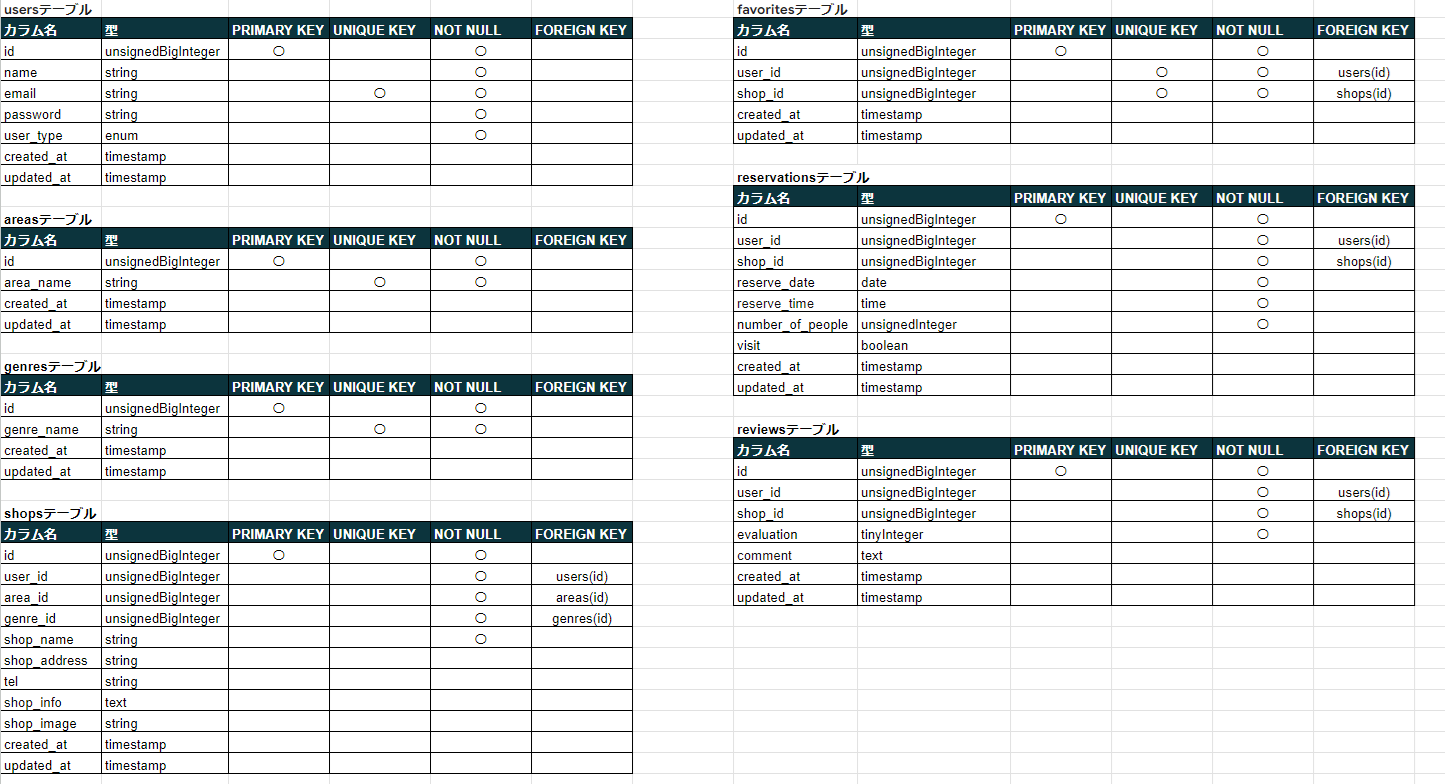
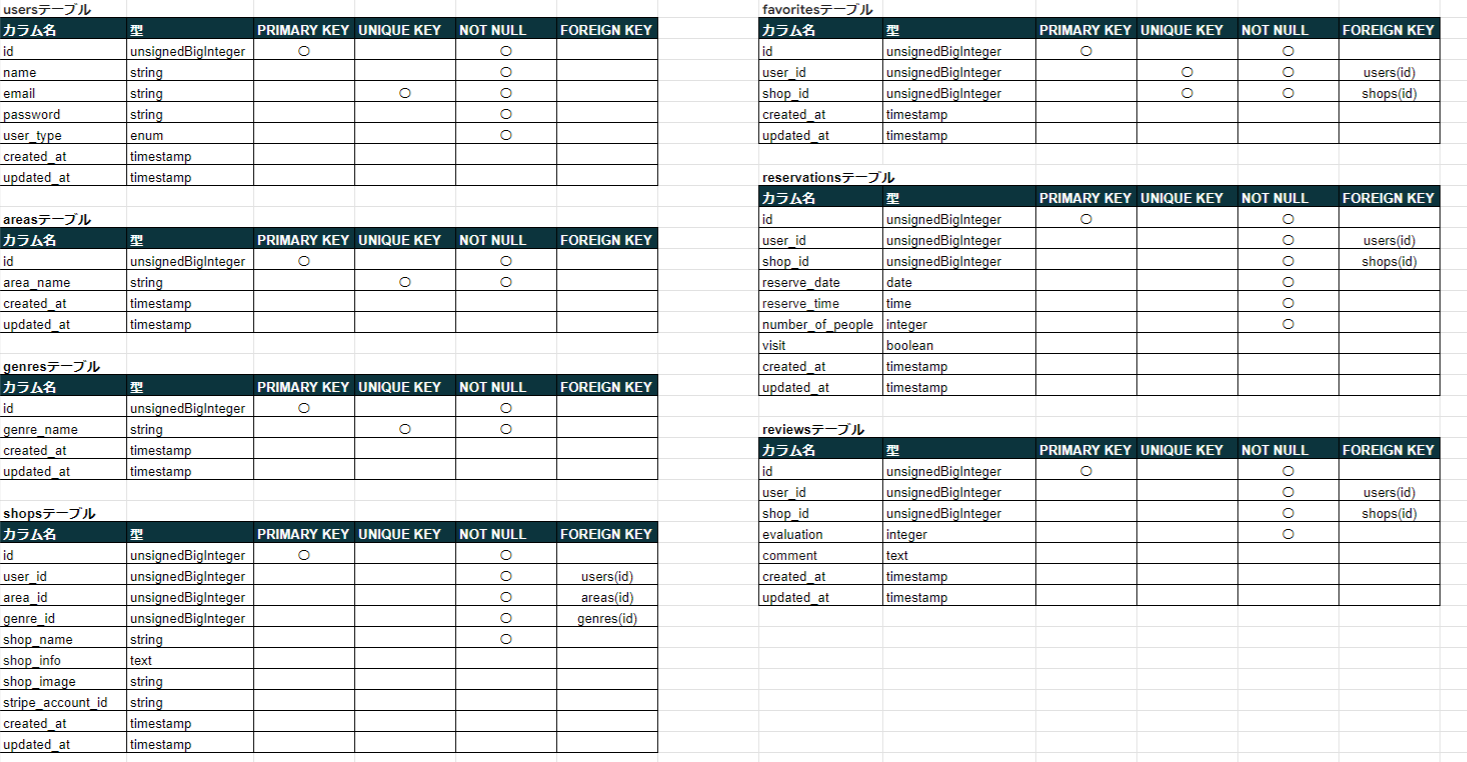
table-design-document.pngの修正

diff --git a/src/database/migrations/2024_07_11_214244_change_columns_to_int_in_reservations_and_reviews_tables.php b/src/database/migrations/2024_07_11_214244_change_columns_to_int_in_reservations_and_reviews_tables.php
@@ -1,0 +1,40 @@
+<?php
+
+use Illuminate\Database\Migrations\Migration;
+use Illuminate\Database\Schema\Blueprint;
+use Illuminate\Support\Facades\Schema;
+
+class ChangeColumnsToIntInReservationsAndReviewsTables extends Migration
+{
+    /**
+     * Run the migrations.
+     *
+     * @return void
+     */
+    public function up()
+    {
+        Schema::table('reservations', function (Blueprint $table) {
+            $table->integer('number_of_people')->change();
+        });
+
+        Schema::table('reviews', function (Blueprint $table) {
+            $table->integer('evaluation')->change();
+        });
+    }
+
+    /**
+     * Reverse the migrations.
+     *
+     * @return void
+     */
+    public function down()
+    {
+        Schema::table('reservations', function (Blueprint $table) {
+            $table->unsignedInteger('number_of_people')->change();
+        });
+
+        Schema::table('reviews', function (Blueprint $table) {
+            $table->tinyInteger('evaluation')->change();
+        });
+    }
+}

diff --git a/src/database/migrations/2024_07_11_204541_remove_tel_and_shop_address_from_shops_table.php b/src/database/migrations/2024_07_11_204541_remove_tel_and_shop_address_from_shops_table.php
@@ -1,0 +1,34 @@
+<?php
+
+use Illuminate\Database\Migrations\Migration;
+use Illuminate\Database\Schema\Blueprint;
+use Illuminate\Support\Facades\Schema;
+
+class RemoveTelAndShopAddressFromShopsTable extends Migration
+{
+    /**
+     * Run the migrations.
+     *
+     * @return void
+     */
+    public function up()
+    {
+        Schema::table('shops', function (Blueprint $table) {
+            $table->dropColumn('tel');
+            $table->dropColumn('shop_address');
+        });
+    }
+
+    /**
+     * Reverse the migrations.
+     *
+     * @return void
+     */
+    public function down()
+    {
+        Schema::table('shops', function (Blueprint $table) {
+            $table->string('tel')->nullable();
+            $table->string('shop_address')->nullable();
+        });
+    }
+}
